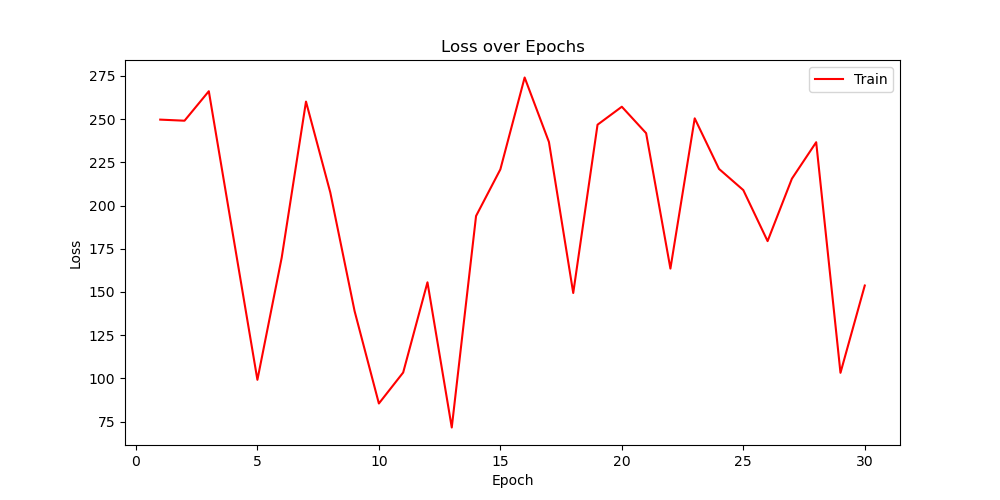
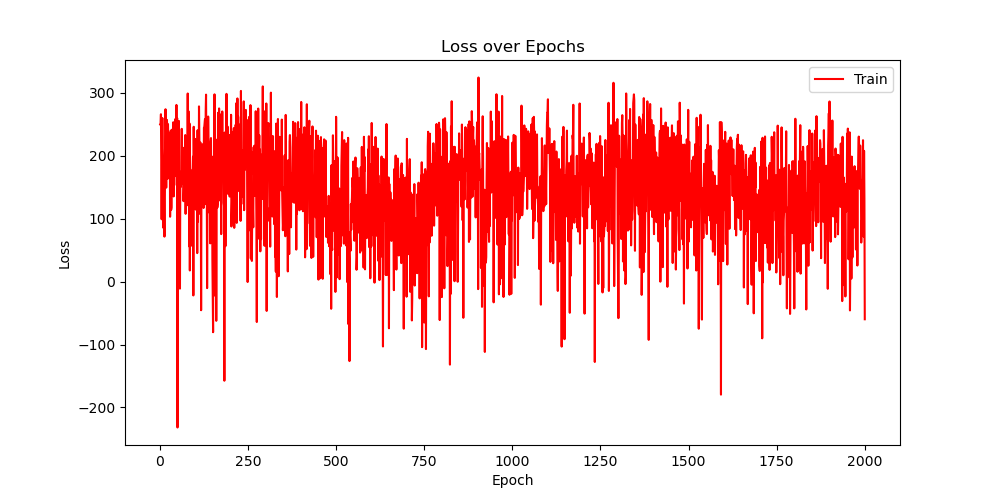
update

diff --git a/dvrl/dvrl.py b/dvrl/dvrl.py
@@ -133,7 +133,7 @@ class Dvrl(object):
             loss.backward()
             dvrl_optimizer.step()
 
-            print(f'Iteration: {iter+1}, Reward: {reward.item()}, DVRL Loss: {loss.item()}, Prob MAX: {torch.max(est_dv_curr).item():.3f}, Prob MIN: {torch.min(est_dv_curr).item():.3f}, QWK: {dvrl_perf:.3f}')
+            print(f'Iteration: {iter+1}, Reward: {reward.item():.3f}, DVRL Loss: {loss.item():.3f}, Prob MAX: {torch.max(est_dv_curr).item():.3f}, Prob MIN: {torch.min(est_dv_curr).item():.3f}, QWK: {dvrl_perf:.3f}')
             rewards_history.append(reward.item())
             losses_history.append(loss.item())
 

diff --git a/train_dvrl.py b/train_dvrl.py
@@ -116,7 +116,7 @@ def main():
     dvrl_params = {}
     dvrl_params['hidden_dim'] = 100
     dvrl_params['comb_dim'] = 10
-    dvrl_params['iterations'] = 30
+    dvrl_params['iterations'] = 2000
     dvrl_params['activation'] = nn.ReLU()
     dvrl_params['layer_number'] = 5
     dvrl_params['learning_rate'] = 0.01
